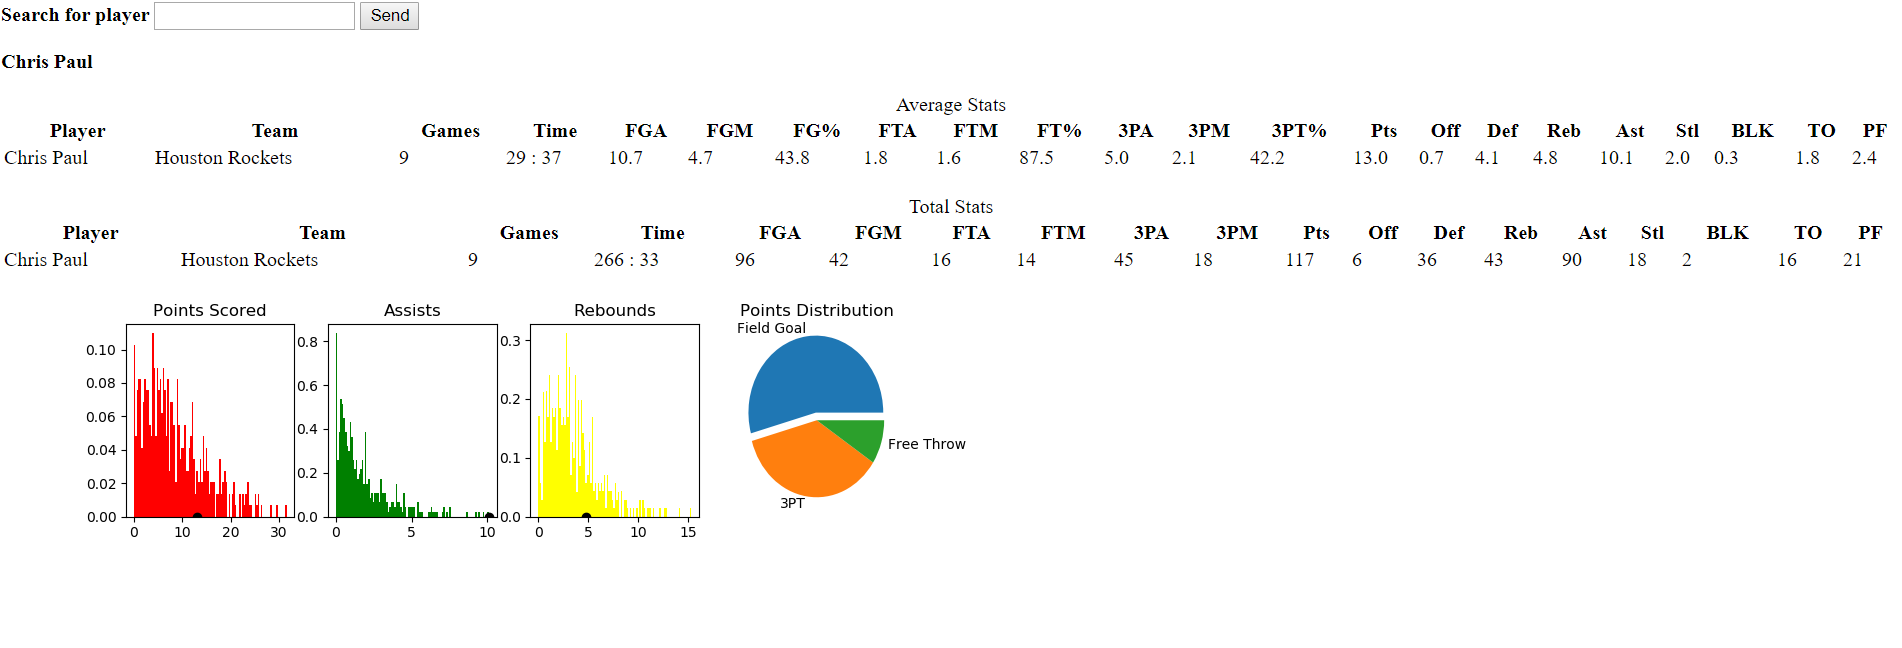
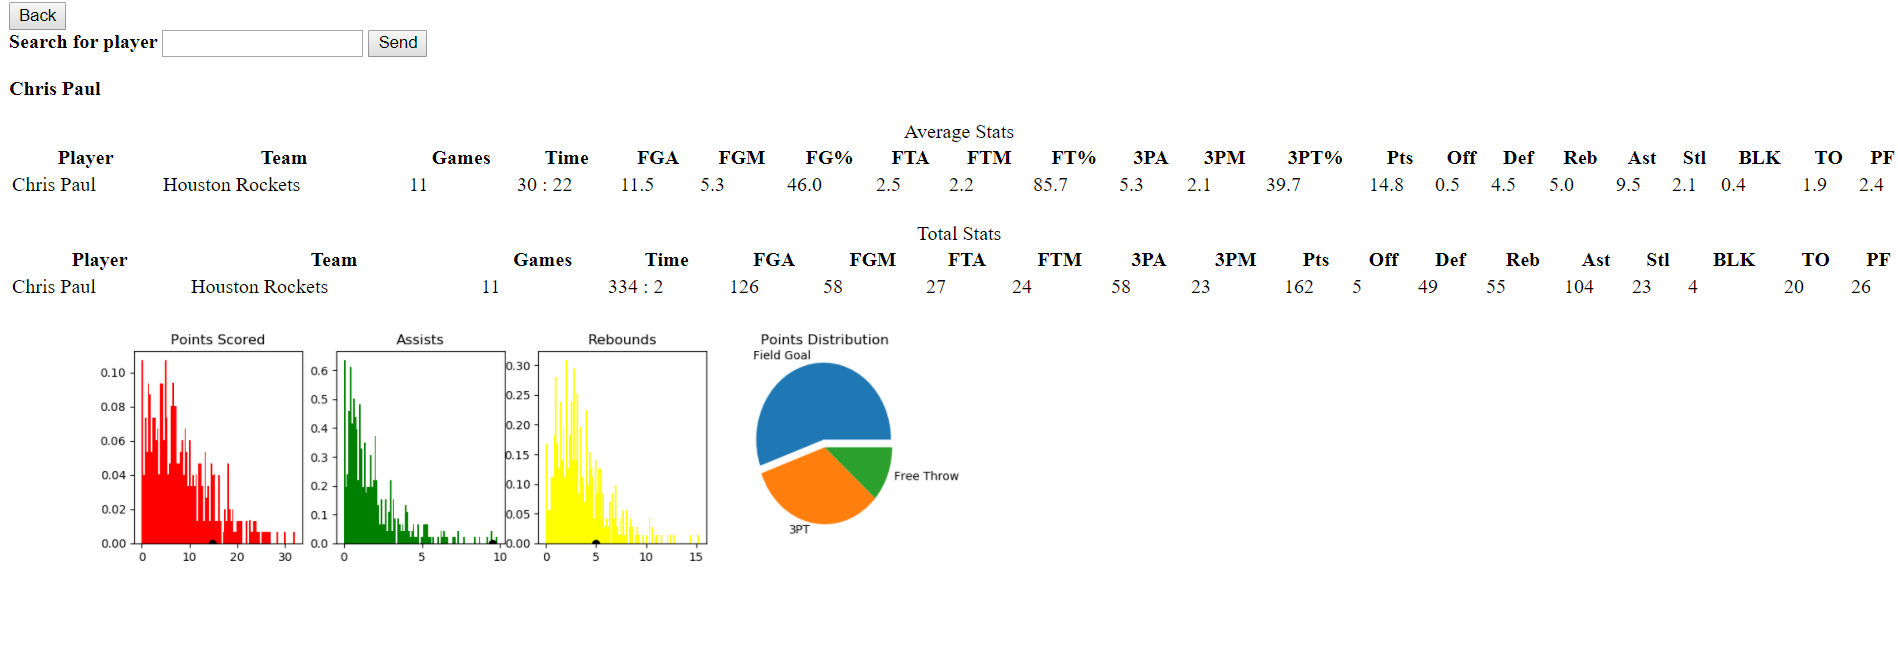
final check

diff --git a/templates/team.html b/templates/team.html
@@ -15,12 +15,15 @@
     <!-- This is what an HTML comment looks like -->
 
     <body>
+        <form action="/">
+            <input type="submit" value="Back" />
+        </form>
         <div class="content">
             <!-- TODO A form for asking the question -->
             <!-- send data to route '/player' -->
             <form action="/team" method = "get">
                 <label>
-                    <b>Search for player</b>
+                    <b>Search for team</b>
                     <input type ="text" name ="team">
                 </label>
                 <button type = "submit">Send</button>

diff --git a/templates/player.html b/templates/player.html
@@ -15,6 +15,9 @@
     <!-- This is what an HTML comment looks like -->
 
     <body>
+    	<form action="/">
+            <input type="submit" value="Back" />
+        </form>
         <div class="content">
             <!-- TODO A form for asking the question -->
             <!-- send data to route '/player' -->
